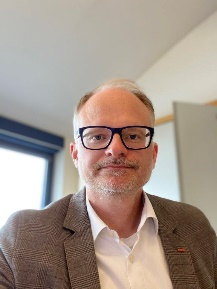
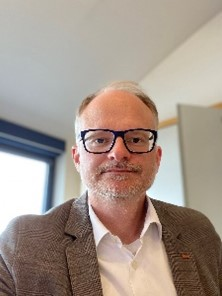
update elternbeirat

diff --git a/content/gemeinschaft/elternbeirat.md b/content/gemeinschaft/elternbeirat.md
@@ -3,8 +3,8 @@ date: 2020-01-01
 title: Der Elternbeirat am WGG
 tags: [Gemeinschaft, Elternbeirat]
 thumbnail: 
-    src: gemeinschaft/wggHaus.jpg
-    alt: Innenansicht des WGG
+    src: elternbeirat/gruppenbild.jpg
+    alt: Gruppenbild des aktuellen Elternbeirats
 ---
 
 Im Folgenden finden sich Informationen rund um den Elternbeirat des WGG
@@ -144,15 +144,15 @@ Die aktuellen Mitglieder des Elternbeirats
         <td>
             <b>Martin Moßburger</b><br>Kasse und Buchführung
         </td>
-        <td><img width="140px" src="/images/elternbeirat/mstroeber.jpg" alt="Elternbeirat" /></td>
+        <td><img width="140px" src="/images/elternbeirat/kwolf.jpg" alt="Elternbeirat" /></td>
         <td>
-            <b>Martina Ströber</b>
+            <b>Katja Wolf <br> Schriftführerin</b>
         </td>
     </tr>
     <tr>
-        <td><img width="140px" src="/images/elternbeirat/trefz-ghassemi.jpg" alt="Elternbeirat"></td>
+        <td><img width="140px" src="/images/elternbeirat/sbuchner.jpg" alt="Elternbeirat" /></td>
         <td>
-            <b>Dr. Margit Trefz-Ghassemi</b>
+            <b>Susanne Buchner <br> Schriftführerin</b>
         </td>
         <td><img width="140px" src="/images/elternbeirat/tkinn.jpg" alt="Elternbeirat" /></td>
         <td>
@@ -160,9 +160,9 @@ Die aktuellen Mitglieder des Elternbeirats
         </td>
     </tr>
     <tr>
-        <td><img width="140px" src="/images/elternbeirat/sbuchner.jpg" alt="Elternbeirat" /></td>
+        <td><img width="140px" src="/images/elternbeirat/ahollweck.jpg" alt="Elternbeirat" /></td>
         <td>
-            <b>Susanne Buchner</b>
+            <b>Anja Hollweck</b>
         </td>
         <td><img width="140px" src="/images/elternbeirat/nfeldberger.jpg" alt="Elternbeirat" /></td>
         <td>
@@ -170,24 +170,39 @@ Die aktuellen Mitglieder des Elternbeirats
         </td>
     </tr>
     <tr>
-        <td><img width="140px" src="/images/elternbeirat/ediepenseifen.jpg" alt="Elterbeirat"></td>
+        <td><img width="140px" src="/images/elternbeirat/tpartenheimer.jpg" alt="Elternbeirat" /></td>
         <td>
-            <b>Eva Diepenseifen</b><br>
+            <b>Torsten Partenheimer</b>
         </td>
-        <td><img width="140px" src="/images/elternbeirat/cgerner.jpg" alt="Elternbeirat" /></td>
+        <td><img width="140px" src="/images/elternbeirat/awill.jpg" alt="Elternbeirat" /></td>
         <td>
-            <b>Claudia Gerner</b>
+            <b>Andrea Will</b>
         </td>
     </tr>
     <tr>
-        <td><img width="140px" src="/images/elternbeirat/fpapenburg.jpg" alt="Elternbeirat" /></td>
+        <td><img width="140px" src="/images/elternbeirat/sseifert.jpg" alt="Elternbeirat" /></td>
         <td>
-            <b>Frank Papenburg</b>
+            <b>Dr. Sibylle Seifert</b>
         </td>
-        <td><img width="140px" src="/images/elternbeirat/kwolf.jpg" alt="Elternbeirat" /></td>
+        <td><img width="140px" src="/images/elternbeirat/sschmitt.jpg" alt="Elternbeirat" /></td>
         <td>
-            <b>Katja Wolf</b>
+            <b>Sabine Schmitt <br> Beisitzerin</b>
         </td>
     </tr>
-
+    <tr>
+        <td><img width="140px" src="/images/elternbeirat/mgrote.jpg" alt="Elternbeirat" /></td>
+        <td>
+            <b>Martina Grote <br> Beisitzerin</b>
+        </td>
+        <td><img width="140px" src="/images/elternbeirat/agross.jpg" alt="Elternbeirat" /></td>
+        <td>
+            <b>Anastasia Gross <br> Beisitzerin</b>
+        </td>
+    </tr>
+    <tr>
+        <td><img width="140px" src="/images/elternbeirat/mbandele.jpg" alt="Elternbeirat" /></td>
+        <td>
+            <b>Margarete Bandele<br> Beisitzerin</b>
+        </td>
+    </tr>
 </table>

diff --git a/content/neue_homepage.md b/content/neue_homepage.md
@@ -10,7 +10,7 @@ thumbnail:
 
 
 Sehr geehrte Besucher unserer neugestalteten Homepage,
-<img src="images/schulleitung/schiffer_klein.jpg" style="float:right; width:20%">
+<img src="images/schulleitung/Schiffer_klein.jpg" style="float:right; width:20%">
 
 nach etlichen Jahren haben wir unsere Homepage einer Auffrischung unterzogen und hoffen, dass Sie hier die wesentlichen Informationen über das Willibald-Gluck-Gymnasium Neumarkt erhalten.
 
